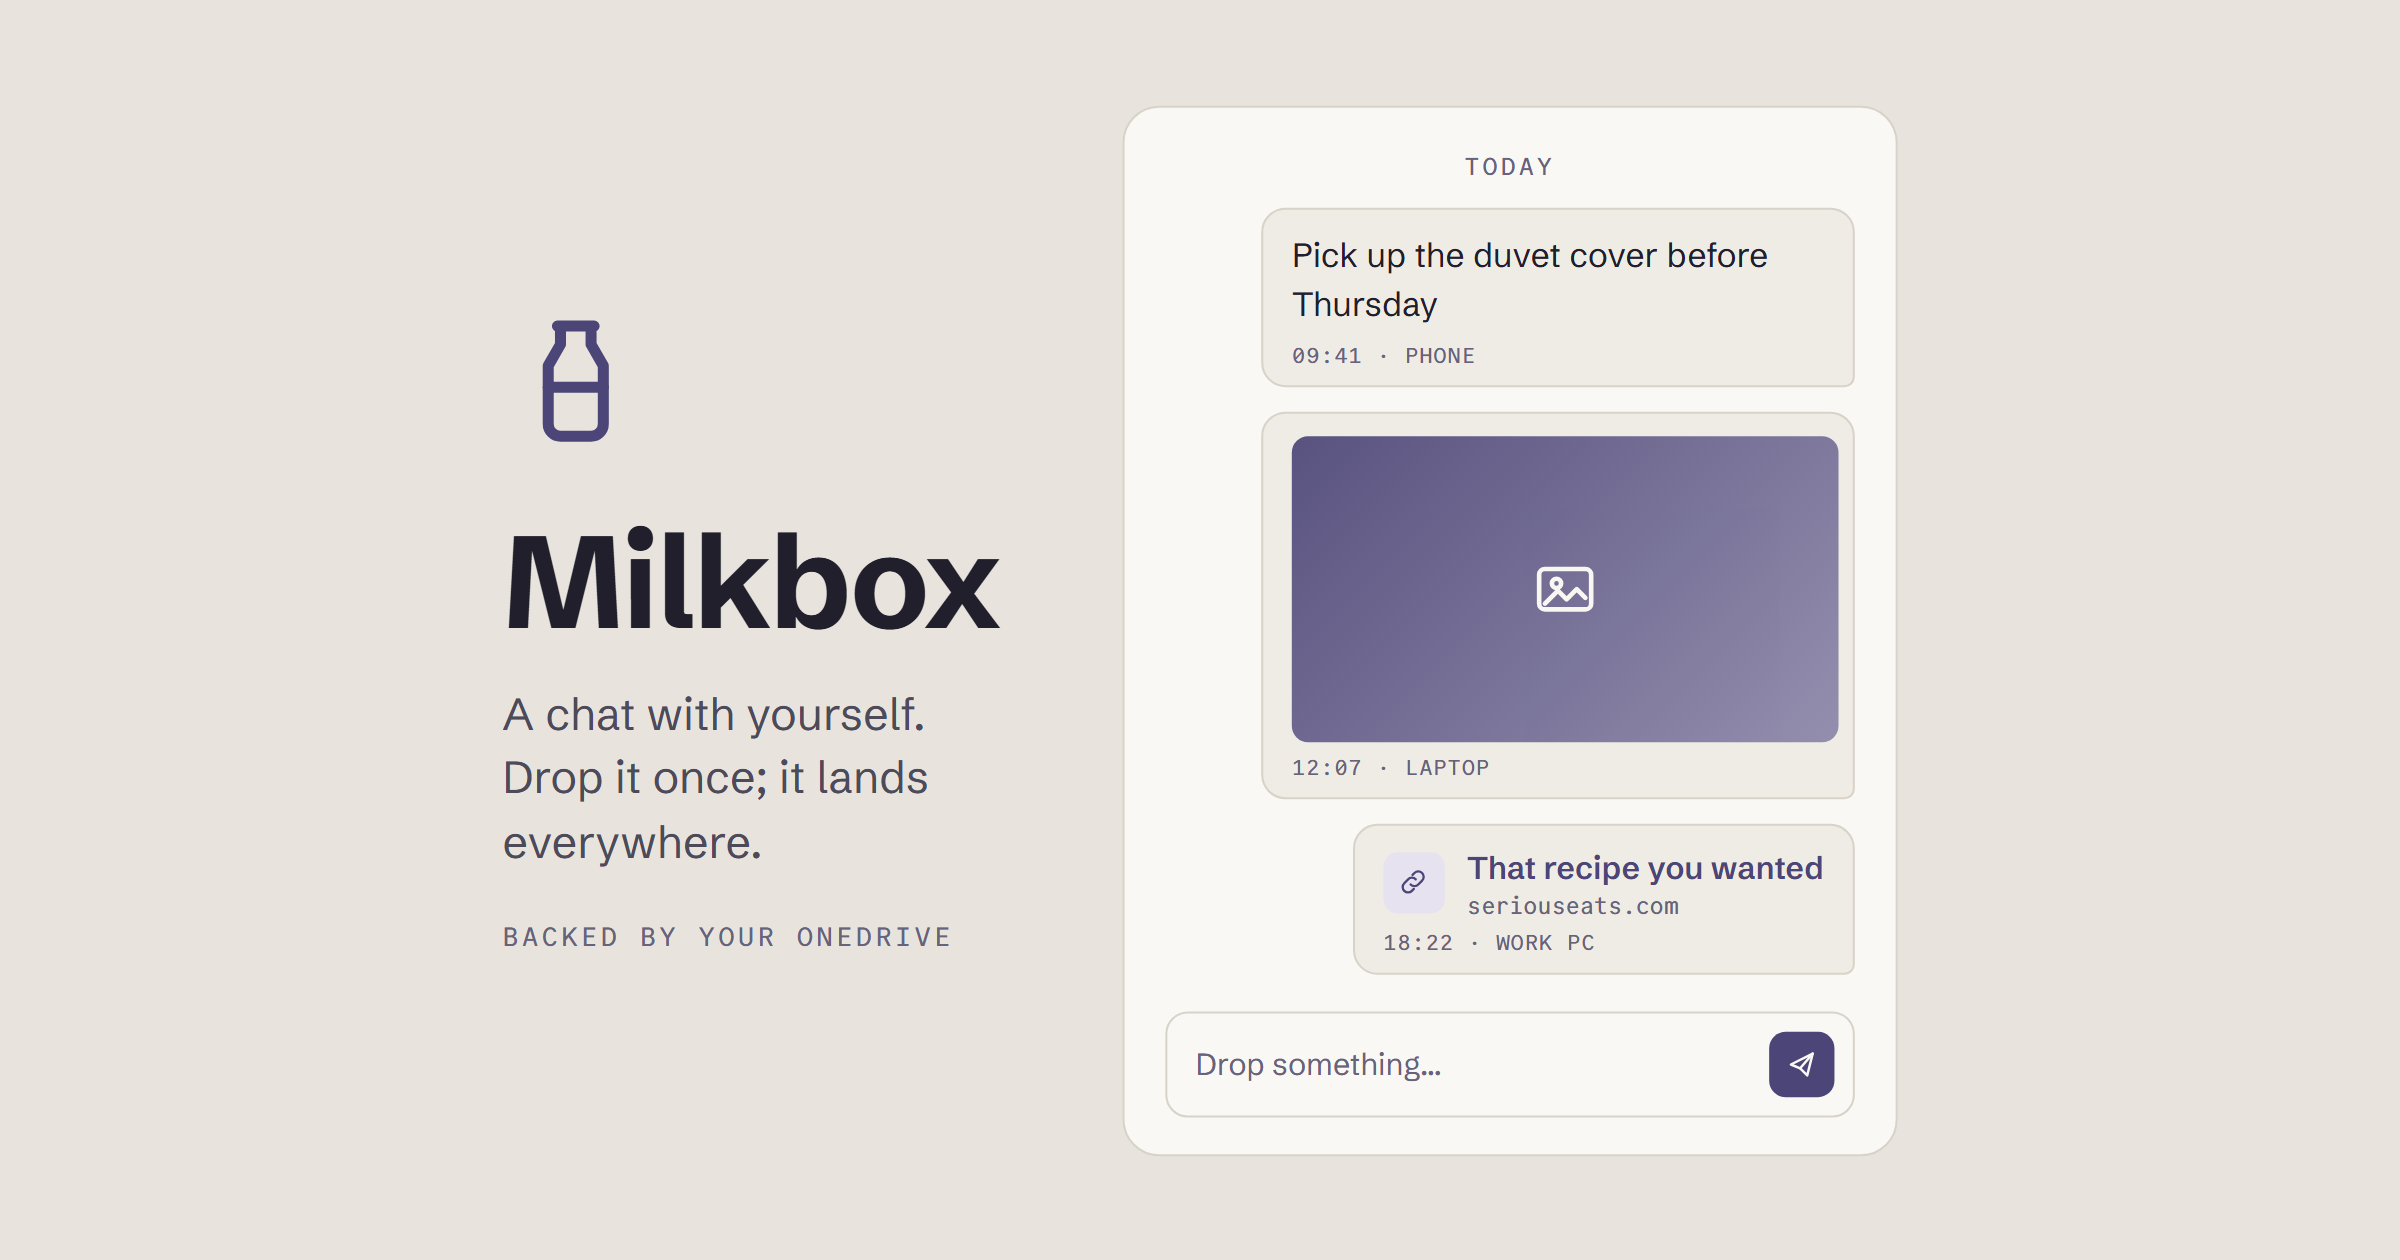
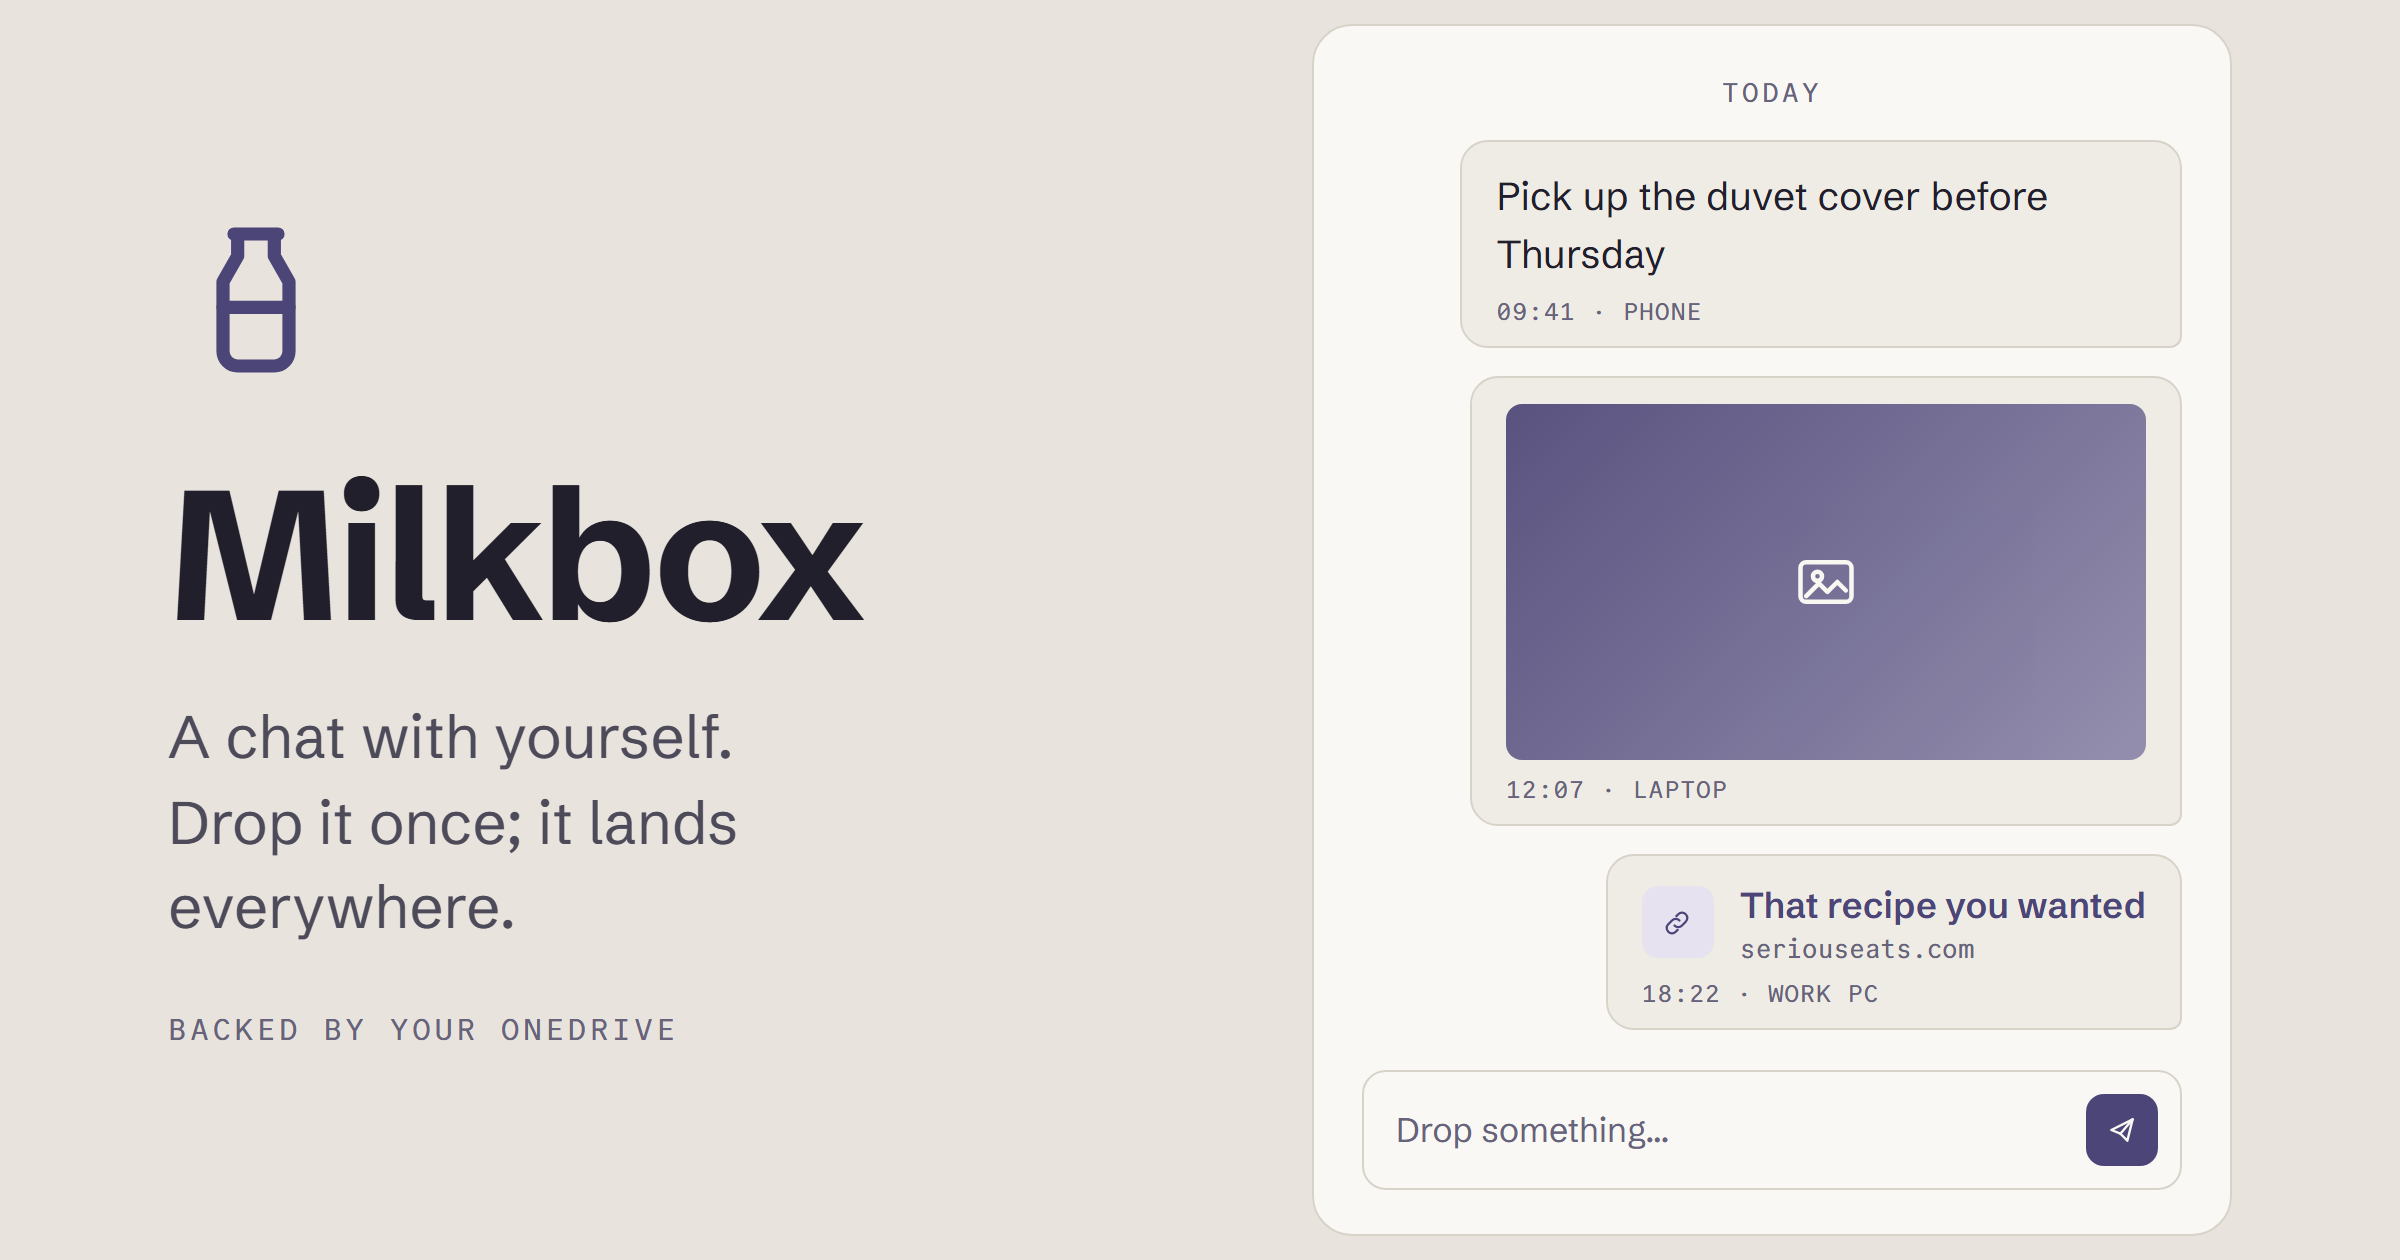
Floating pane on tall viewports; quiet scrollbar; rebalanced social card
The feed becomes a centered 720x800 pane on a --desk ground when the
viewport allows, instead of full-height wallpaper. The feed scrollbar
loses its painted track and only exists when the conversation actually
overflows (the old min-height forced permanent overflow).

diff --git a/art/social-card.html b/art/social-card.html
@@ -39,76 +39,79 @@
   }
 
   .scene {
+    width: 100%;
+    height: 100%;
     display: flex;
     align-items: center;
-    gap: 72px;
+    justify-content: space-between;
+    padding: 0 96px;
   }
 
   /* Left: wordmark lockup */
   .lockup { text-align: left; }
   .lockup svg { color: var(--accent); }
   .lockup h1 {
-    font-size: 64px;
+    font-size: 92px;
     font-weight: 700;
-    letter-spacing: -0.02em;
-    margin-top: 18px;
+    letter-spacing: -0.025em;
+    margin-top: 22px;
   }
   .lockup p {
-    font-size: 22px;
-    line-height: 1.45;
+    font-size: 30px;
+    line-height: 1.42;
     color: var(--ink-2);
-    margin-top: 10px;
-    max-width: 17ch;
+    margin-top: 14px;
+    max-width: 18ch;
   }
   .lockup .stamp {
     display: inline-block;
-    margin-top: 22px;
+    margin-top: 30px;
     font-family: 'Commit Mono', monospace;
-    font-size: 13px;
+    font-size: 15px;
     letter-spacing: 0.14em;
     color: var(--ink-3);
   }
 
   /* Right: a miniature feed on the sheet */
   .phone {
-    width: 380px;
+    width: 460px;
     background: var(--surface);
     border: 1px solid var(--hairline);
-    border-radius: 18px;
-    padding: 22px 20px 18px;
+    border-radius: 20px;
+    padding: 26px 24px 22px;
     display: flex;
     flex-direction: column;
-    gap: 12px;
+    gap: 14px;
   }
   .day {
     align-self: center;
     font-family: 'Commit Mono', monospace;
-    font-size: 12px;
+    font-size: 13.5px;
     letter-spacing: 0.14em;
     color: var(--ink-3);
     padding-bottom: 2px;
   }
   .bubble {
     align-self: flex-end;
-    max-width: 86%;
+    max-width: 88%;
     background: var(--surface-sunk);
     border: 1px solid var(--hairline);
-    border-radius: 12px;
-    border-bottom-right-radius: 5px;
-    padding: 11px 14px 9px;
+    border-radius: 14px;
+    border-bottom-right-radius: 6px;
+    padding: 13px 17px 11px;
   }
-  .bubble .t { font-size: 16.5px; line-height: 1.45; }
+  .bubble .t { font-size: 19.5px; line-height: 1.45; }
   .bubble .m {
     font-family: 'Commit Mono', monospace;
-    font-size: 10.5px;
+    font-size: 12px;
     letter-spacing: 0.06em;
     text-transform: uppercase;
     color: var(--ink-3);
-    margin-top: 7px;
+    margin-top: 8px;
   }
   .bubble.image .pic {
-    width: 268px;
-    height: 150px;
+    width: 320px;
+    height: 178px;
     border-radius: 8px;
     background: linear-gradient(135deg, var(--accent) 0%, var(--accent-soft) 240%);
     display: grid;
@@ -116,46 +119,46 @@
     color: var(--on-accent);
     opacity: 0.92;
   }
-  .bubble.link .row { display: flex; align-items: center; gap: 11px; }
+  .bubble.link .row { display: flex; align-items: center; gap: 13px; }
   .bubble.link .fav {
-    width: 30px; height: 30px; border-radius: 7px;
+    width: 36px; height: 36px; border-radius: 8px;
     background: var(--accent-soft); color: var(--accent);
     display: grid; place-items: center;
   }
-  .bubble.link .title { font-size: 15.5px; font-weight: 600; color: var(--accent); }
+  .bubble.link .title { font-size: 18px; font-weight: 600; color: var(--accent); }
   .bubble.link .dom {
     font-family: 'Commit Mono', monospace;
-    font-size: 11.5px; color: var(--ink-3); margin-top: 3px;
+    font-size: 13px; color: var(--ink-3); margin-top: 3px;
   }
   .composer {
     display: flex;
     align-items: center;
-    gap: 9px;
+    gap: 10px;
     border: 1px solid var(--hairline);
-    border-radius: 11px;
-    padding: 9px 9px 9px 14px;
+    border-radius: 12px;
+    padding: 11px 11px 11px 16px;
     margin-top: 6px;
     color: var(--ink-3);
-    font-size: 15px;
+    font-size: 17px;
   }
   .composer .send {
     margin-left: auto;
-    width: 32px; height: 32px;
-    border-radius: 8px;
+    width: 36px; height: 36px;
+    border-radius: 9px;
     background: var(--accent);
     color: var(--on-accent);
     display: grid;
     place-items: center;
   }
 
-  /* OG variant: tighter frame, bigger lockup */
-  body[data-size='og'] .scene { gap: 60px; transform: scale(1.02); }
+  /* OG variant (1200x630): shallower frame — pull the gutters in a touch */
+  body[data-size='og'] .scene { padding: 0 84px; }
 </style>
 </head>
 <body>
   <div class="scene">
     <div class="lockup">
-      <svg viewBox="0 0 24 24" width="72" height="72" fill="none" stroke="currentColor" stroke-width="1.8" stroke-linecap="round" stroke-linejoin="round"><path d="M9 3h6M9.5 3v3l-2 3.5V19a2 2 0 0 0 2 2h5a2 2 0 0 0 2-2V9.5l-2-3.5V3"/><path d="M7.5 13h9"/></svg>
+      <svg viewBox="0 0 24 24" width="88" height="88" fill="none" stroke="currentColor" stroke-width="1.8" stroke-linecap="round" stroke-linejoin="round"><path d="M9 3h6M9.5 3v3l-2 3.5V19a2 2 0 0 0 2 2h5a2 2 0 0 0 2-2V9.5l-2-3.5V3"/><path d="M7.5 13h9"/></svg>
       <h1>Milkbox</h1>
       <p>A chat with yourself. Drop it once; it lands everywhere.</p>
       <span class="stamp">BACKED BY YOUR ONEDRIVE</span>

diff --git a/src/styles/global.css b/src/styles/global.css
@@ -50,7 +50,8 @@
 :root {
   color-scheme: light;
 
-  /* ── surfaces: ground → surface → hairline ── */
+  /* ── surfaces: desk → ground → surface → hairline ── */
+  --desk:         #ded9cf;  /* the porch behind the pane (tall viewports) */
   --ground:       #e8e4dd;  /* warm putty stoop */
   --surface:      #faf8f4;  /* the milk-white sheet */
   --surface-sunk: #efece5;  /* composer well, chips, sunk fields */
@@ -106,6 +107,7 @@
 :root[data-theme='dark'] {
   color-scheme: dark;
 
+  --desk:         #0d0c11;
   --ground:       #131218;
   --surface:      #1c1b23;
   --surface-sunk: #24222e;
@@ -149,7 +151,31 @@ body {
   overscroll-behavior-y: none;
 }
 
-#app { height: 100%; }
+#app {
+  height: 100%;
+  display: flex;
+  flex-direction: column;
+}
+
+/*
+ * Tall, wide viewports: the app becomes a floating pane on the desk rather
+ * than a full-height sheet — a milkbox sitting on the porch, not wallpaper.
+ * The pane keeps --ground inside; the page behind steps down to --desk.
+ */
+@media (min-height: 900px) and (min-width: 768px) {
+  body { background: var(--desk); }
+  .feed-screen,
+  .settings-screen {
+    height: min(800px, calc(100dvh - 96px));
+    width: min(720px, calc(100vw - 48px));
+    margin: auto;
+    background: var(--ground);
+    border: 1px solid var(--hairline);
+    border-radius: 14px;
+    box-shadow: var(--shadow-sheet), var(--card-highlight);
+    overflow: hidden;
+  }
+}
 
 a { color: var(--accent); }
 a:hover { color: var(--accent-hover); }

diff --git a/src/styles/feed.css b/src/styles/feed.css
@@ -75,12 +75,23 @@
 
 .feed-scroll {
   flex: 1;
+  display: flex;
+  flex-direction: column;
   overflow-y: auto;
   overscroll-behavior: contain;
   padding: 0 20px;
+  /* Quiet scrollbar: no track paint, hairline thumb, only when needed. */
+  scrollbar-width: thin;
+  scrollbar-color: var(--hairline) transparent;
+}
+.feed-scroll::-webkit-scrollbar { width: 8px; }
+.feed-scroll::-webkit-scrollbar-track { background: transparent; }
+.feed-scroll::-webkit-scrollbar-thumb {
+  background: var(--hairline);
+  border-radius: 4px;
 }
 
-.feed-sentinel { height: 1px; }
+.feed-sentinel { height: 1px; flex: none; }
 
 .feed-list {
   display: flex;
@@ -88,15 +99,16 @@
   align-items: flex-end;   /* self-chat: your own drops hang right */
   gap: 8px;
   padding: 12px 0 20px;
-  min-height: 100%;
-  justify-content: flex-end;
+  /* Pin the conversation to the bottom without forcing overflow —
+   * min-height: 100% here kept a scrollbar alive on empty feeds. */
+  margin-top: auto;
 }
+.feed-list:has(.feed-empty) { margin: auto 0; }
 
 /* ── empty state ── */
 
 .feed-empty {
   align-self: center;
-  margin: auto;
   text-align: center;
   max-width: 40ch;
   padding: 48px 0;

diff --git a/src/styles/settings.css b/src/styles/settings.css
@@ -32,6 +32,8 @@
 .settings-body {
   flex: 1;
   overflow-y: auto;
+  scrollbar-width: thin;
+  scrollbar-color: var(--hairline) transparent;
   padding: 4px 20px 32px;
   display: flex;
   flex-direction: column;
